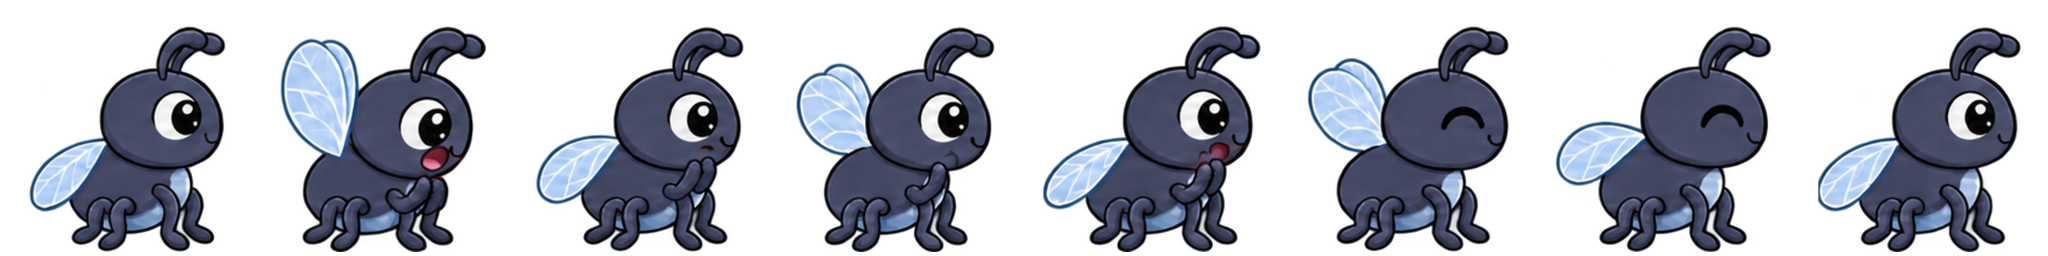
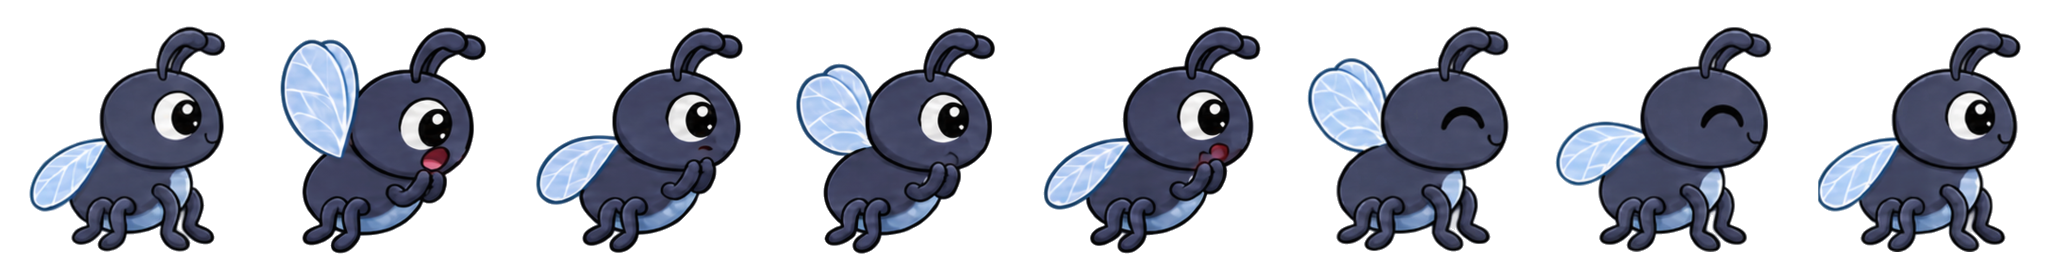
Fix duplicate mouth and legs in fly eating animation (#34)

diff --git a/scripts/dev-assets.ts b/scripts/dev-assets.ts
@@ -1,0 +1,13 @@
+import preview from '../asset-preview.html';
+
+const server = Bun.serve({
+	hostname: '0.0.0.0',
+	port: 3001,
+	development: { hmr: true, console: true },
+	routes: {
+		'/': preview,
+		'/asset-preview.html': preview,
+	},
+});
+
+console.log(`Asset preview available on the local network at port ${server.port}`);
